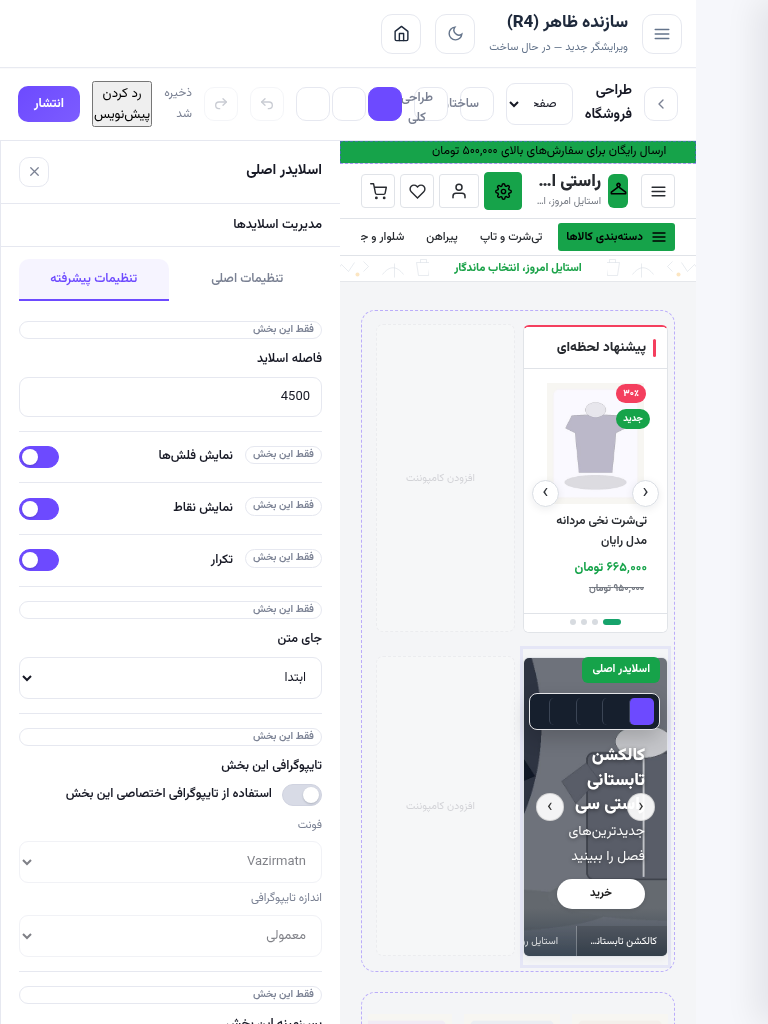
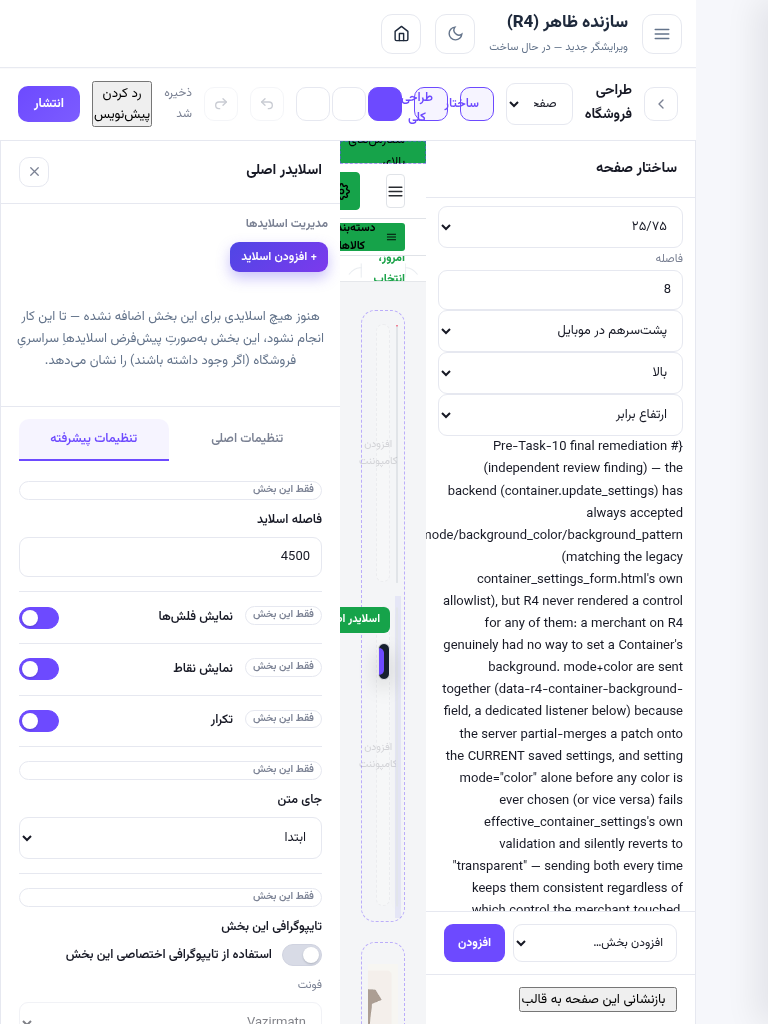
fix(storefront_builder): process htmx on injected R4 Inspector; refresh Task-4 browser evidence
Phase 5 Task 4 remediation — the R4-native inline media manager's controls
are htmx-driven, but the Inspector body is injected via innerHTML (which htmx
does not auto-bind). openSection now calls htmx.process() on the injected
Inspector so the embedded canonical media manager's add/edit/toggle/delete/
reorder controls work inline (reuses the htmx already loaded by base_admin —
no second binding mechanism; guarded to no-op without htmx).

Also refreshes the 3-viewport browser QA screenshots to reflect the
remediation (R4-native inline media incl. inline add form, per-group Global
Design scope chips), superseding the pre-remediation captures.

diff --git a/apps/storefront_builder/static/storefront_builder/r4_editor.js b/apps/storefront_builder/static/storefront_builder/r4_editor.js
@@ -375,6 +375,16 @@ window.RastiSiR4 = {
         if (html == null) return;
         inspector.innerHTML = html;
         inspector.hidden = false;
+        // Phase 5 Task 4 (remediation R1a) — the Inspector body can embed the
+        // canonical media manager, whose add/edit/toggle/delete/reorder
+        // controls are htmx-driven. htmx does NOT auto-bind content injected
+        // via innerHTML, so process the injected subtree once here to activate
+        // those existing endpoints inline (reuses the htmx already loaded by
+        // base_admin.html — never a second binding mechanism). Guarded so a
+        // build without htmx simply no-ops.
+        if (window.htmx && typeof window.htmx.process === 'function') {
+          window.htmx.process(inspector);
+        }
         if (shell) shell.dataset.r4InspectorOpen = 'true';
         R4.selected = sectionId;
         R4.inspectorOpen = true;

diff --git a/apps/storefront_builder/tests/test_r4_inspector.py b/apps/storefront_builder/tests/test_r4_inspector.py
@@ -890,7 +890,7 @@ class Task4DSelectionSyncJsContractTests(R4MutationApiTestCase):
         # preview-originated selectSection/openSectionSettings all route to
         # it) — it drives the preview selection through one shared helper.
         open_idx = self.js_source.index("openSection = function")
-        open_chunk = self.js_source[open_idx:open_idx + 1800]
+        open_chunk = self.js_source[open_idx:open_idx + 2400]
         self.assertIn("syncPreviewSelection()", open_chunk)
         # The helper posts setSelection carrying the current selected id.
         helper_idx = self.js_source.index("function syncPreviewSelection")
@@ -1043,6 +1043,28 @@ class Task4ANoDuplicateMediaAuthorityTests(R4MutationApiTestCase):
         # The three canonical models stay the only media models the builder uses.
         kinds = set(mv._MEDIA_KINDS)
         self.assertEqual(kinds, {"hero-slides", "banners", "story-items"})
+
+
+class Task4AInspectorHtmxProcessedTests(R4MutationApiTestCase):
+    """R1a — the inline media manager relies on htmx-bound controls, but the
+    Inspector HTML is injected via innerHTML (which htmx does not auto-process).
+    openSection must call htmx.process() on the injected Inspector so the
+    embedded canonical media manager's add/edit/toggle/delete controls actually
+    work inline — reusing htmx (already loaded by base_admin), not a second
+    binding mechanism."""
+
+    @classmethod
+    def setUpClass(cls):
+        super().setUpClass()
+        cls.js_source = Path(
+            settings.BASE_DIR,
+            "apps/storefront_builder/static/storefront_builder/r4_editor.js",
+        ).read_text(encoding="utf-8")
+
+    def test_open_section_processes_htmx_on_injected_inspector(self):
+        open_idx = self.js_source.index("openSection = function")
+        open_chunk = self.js_source[open_idx:open_idx + 1800]
+        self.assertIn("htmx.process", open_chunk)
 
 
 
